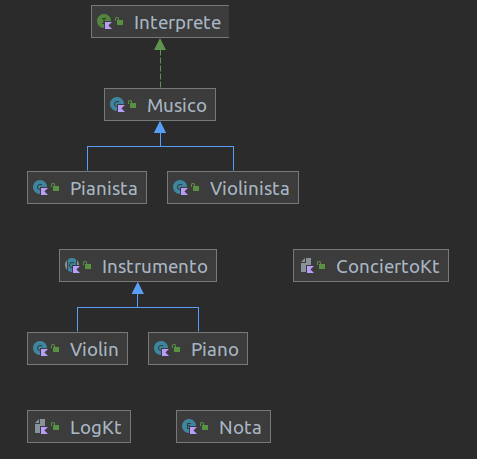
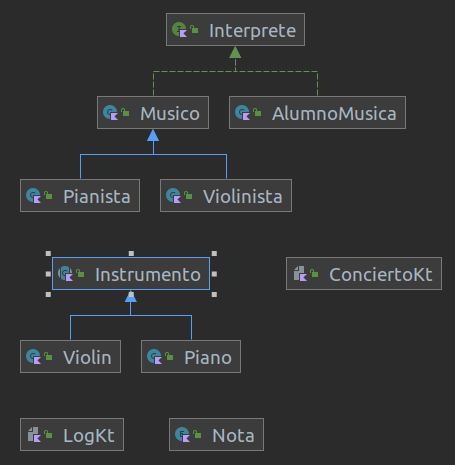
Descripción de la práctica

diff --git a/src/main/kotlin/Concierto.md b/src/main/kotlin/Concierto.md
@@ -34,25 +34,51 @@ interprete. Utilizar enumerados para definir las notas musicales.
 10. Hay que tener en cuenta que todos los músicos, tendrán un comportamiento común, aunque cada músico sobreescribirá su método `interpretar` (`Musico`)
 11. Se quiere poder realizar conciertos por cualquier persona que sepa interpretar una obra. `Interprete`
 12. Por lo pronto, tendremos 2 músicos: `Pianista`y `Violinista`, cada uno con un `Interpretar` especializado.
+13. Se puede dar un concierto con multiples especialistas, según el código descrito en el epígrafe siguiente.
 
-### Ejecución
+## 3. Ejecución y test
 La práctica se ejecutará con este código:
 ```kotlin
 fun main() {
     val obra = arrayOf<Nota?>(Nota.MI, Nota.MI, Nota.DO, Nota.FA)
-    val interpretes = mutableMapOf<String, Interprete>(
+    val interpretes = mutableMapOf(
         "Pianista" to Pianista( Piano(), obra),
-        "Violinista" to Violinista( Violin(), obra)
+        "Violinista" to Violinista( Violin(), obra),
+        "AlumnoMusico1" to AlumnoMusica( Violin(), obra),
+        "AlumnoMusico2" to AlumnoMusica( Piano(), obra)
     )
 
-    repeat(2)
+    repeat(4)
     {
         interpretes.keys.random().run {
+            i("CONCIERTO", this)
             interpretes[this]?.interpretar()
             interpretes.remove(this)
         }
     }
 }
+
+```
+Y la salida debería ser similar a lo siguiente:
+```
+####### - SOY PIANISTA
+===> Tocando piano
+miiii miiii dooo faaa 
+
+####### - SOY VIOLINISTA
+===> Tocando violin
+miggg miggg doggg faggg 
+
+####### - SOY AlUMNO DE MUSICA
+===> Tocando piano
+miiii miiii dooo faaa 
+
+####### - SOY AlUMNO DE MUSICA
+===> Tocando violin
+miggg miggg doggg faggg 
+
+Process finished with exit code 0
+
 ```
 ### Estructura de clases final esperado
 
@@ -63,15 +89,12 @@ La estructura de clase que se espera es la siguiente:
 ## 2. Evaluación
 
 Se tendrá en cuenta el uso de superclases, interfaces, clases abstractas, el uso de jerarquía de clases ya conocidas y que nos las proporcionan kotlin, como por ejemplo List, Map, Set. etc.
+Basados en los RA4 y RA7
 
-###### d) Se han creado clases heredadas que sobrescriban la implementación de métodos de la superclase.
+###### Realizados los puntos del epígrafe 2.
 0. No lo hace; 5. Crea clases heredadas que sobreescriben pero no adecuadamente o no completo; 10. Correcto.
-###### e) Se han diseñado y aplicado jerarquías de clases.
+###### Se han diseñado y aplicado jerarquías de clases: Interfaces y clases abstractas,
 0. No lo hace; 5. Se diseña y aplica jerarquía pero no adecuadamente o no completa; 10. Correcto.
-###### f) Se han probado y depurado las jerarquías de clases.
-0. No lo hace; 5. No funciona adecuadamente; 10. Correcto.
-###### g) Se han realizado programas que implementen y utilicen jerarquías de clases.
-0. No lo hace; 5. Implementa y utiliza jerarquías de clases vistas pero no correctamente; 10. Correcto.
 
 
 Adicionalmente se tendrá en cuenta:
